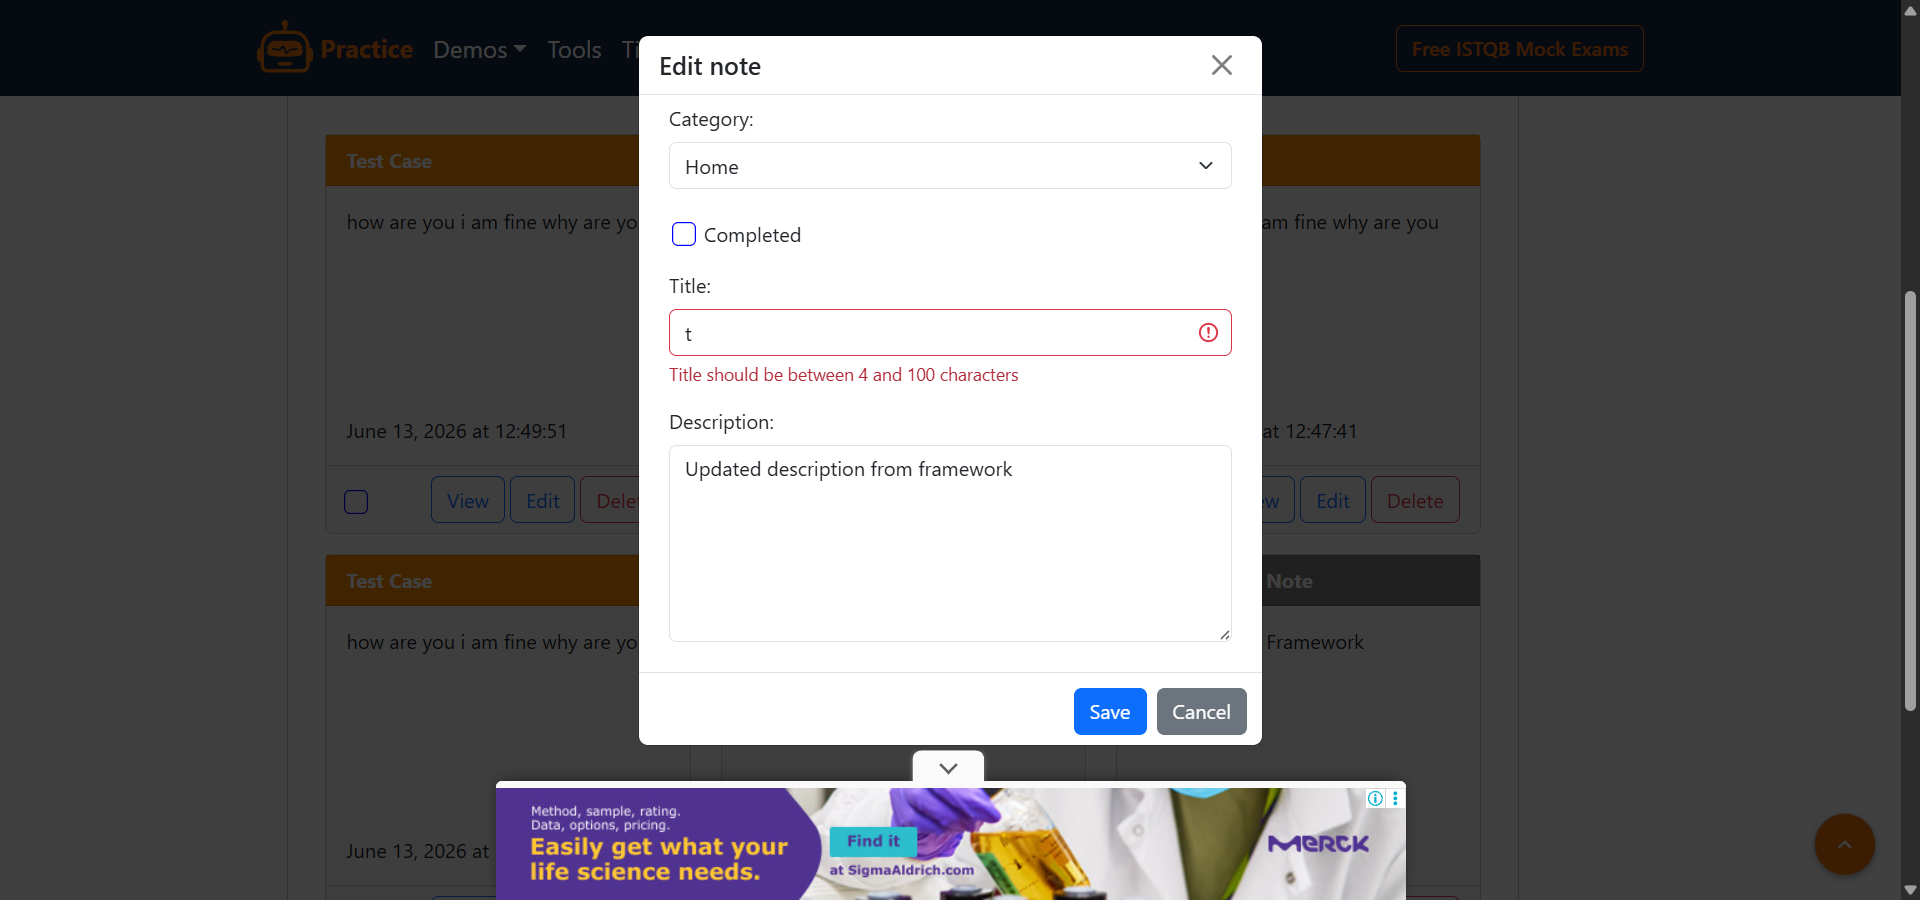
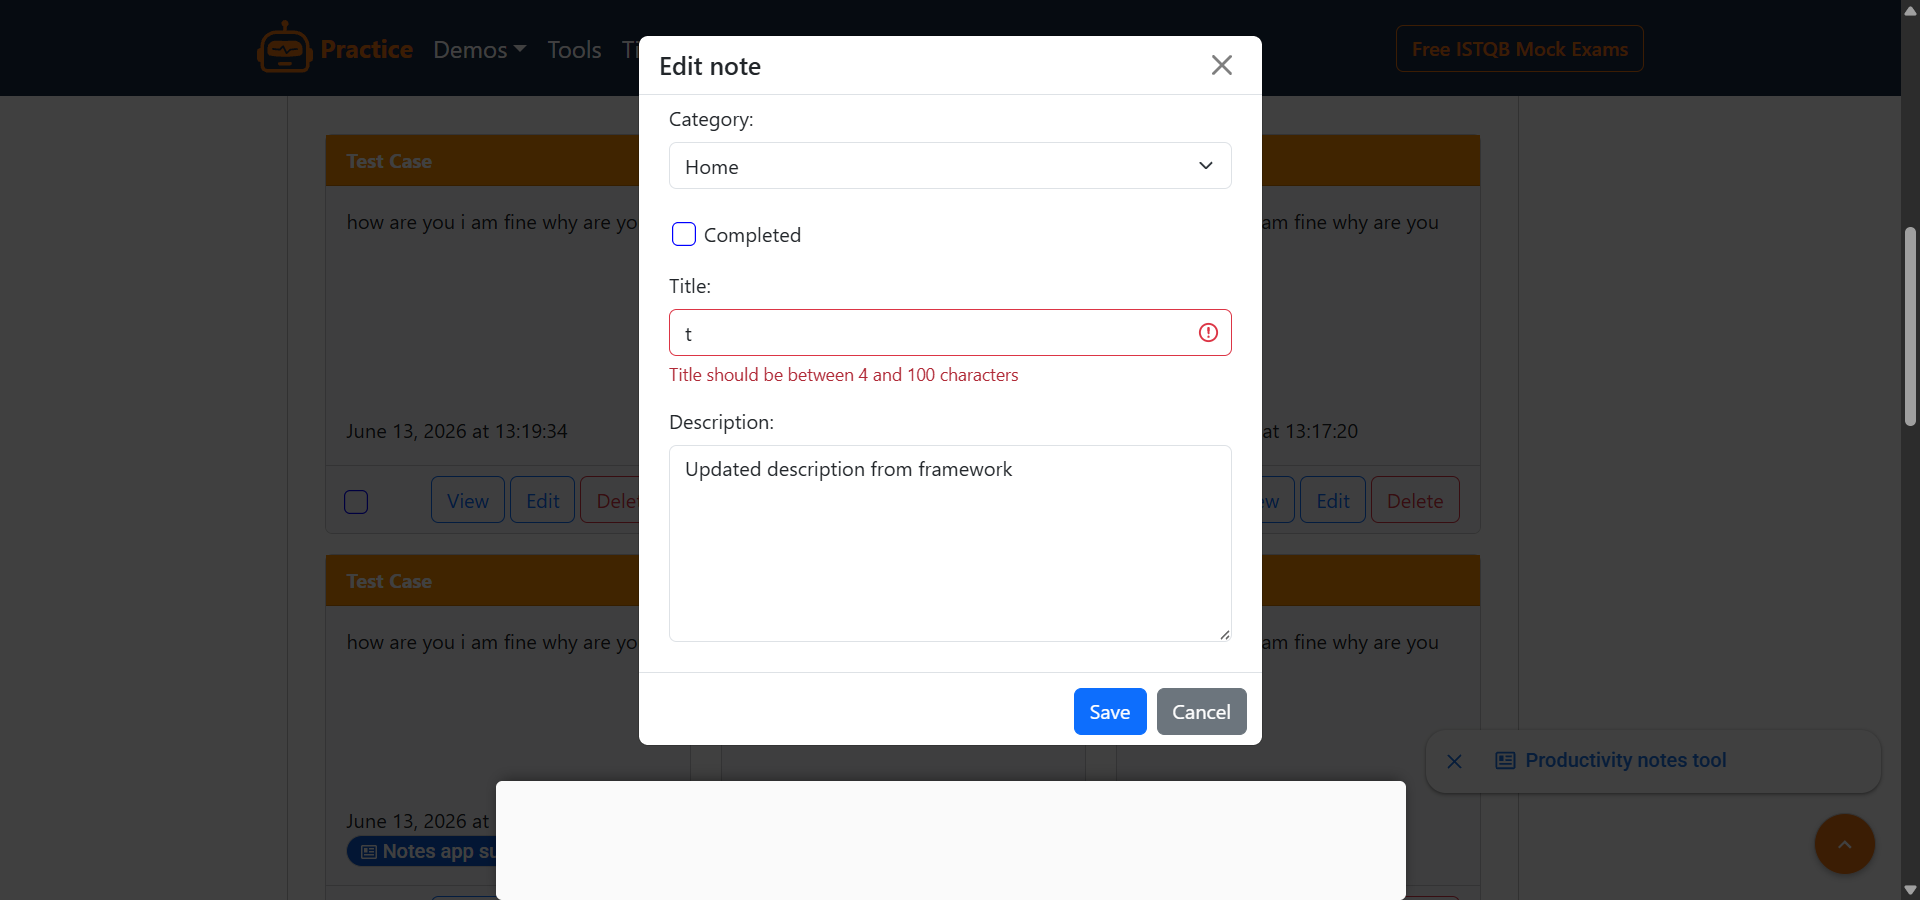
updating the files

diff --git a/pages/base_page.py b/pages/base_page.py
@@ -19,15 +19,16 @@ class BasePage:
         """)
 
     def click(self, locator):
-        element = self.wait.until(EC.element_to_be_clickable(locator))
-
-        self.driver.execute_script("arguments[0].scrollIntoView({block:'center'});",element)
+        self.dismiss_ads()
+        element = self.wait.until(EC.presence_of_element_located(locator))
+        self.driver.execute_script("arguments[0].scrollIntoView({block:'center'});", element)
         self.dismiss_ads()
 
         try:
+            self.wait.until(EC.element_to_be_clickable(locator))
             element.click()
         except Exception:
-            self.driver.execute_script("arguments[0].click();",element)
+            self.driver.execute_script("arguments[0].click();", element)
 
     def direct_click(self, locator):
         self.driver.find_element(*locator).click()